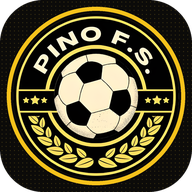
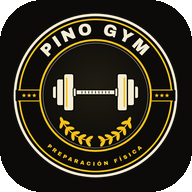
Comparador de fotos deslizable y escudo Pino Gym
Claude-Session: https://claude.ai/code/session_01Kz5EdENrRzZoivTcBXxDK7

diff --git a/juanma/index.html b/juanma/index.html
@@ -423,6 +423,15 @@ body::before{background:var(--bg)}
 .bimg.sm span{position:absolute;left:0;right:0;bottom:0;font-size:10px;font-weight:700;text-transform:uppercase;letter-spacing:.06em;background:rgba(0,0,0,.65);color:#fff;padding:3px 0;text-align:center}
 .bimg.sm.empty{display:block}
 .cmpcol .label{text-align:center}
+.cmp-sc{display:flex;overflow-x:auto;scroll-snap-type:x mandatory;border-radius:12px;scrollbar-width:none;-webkit-overflow-scrolling:touch;overscroll-behavior-x:contain}
+.cmp-sc::-webkit-scrollbar{display:none}
+.cmp-sc>.bimg{flex:0 0 100%;scroll-snap-align:center;scroll-snap-stop:always}
+.bimg.last{border-color:var(--accent);box-shadow:0 0 0 1px var(--accent)}
+.cmp-nav{display:flex;align-items:center;justify-content:center;gap:6px;min-height:34px}
+.cmp-nav .label{flex:1;min-width:0;font-size:11px;line-height:1.25}
+.cmp-ar{width:34px;height:34px;flex:none;border-radius:50%;border:1px solid var(--line);background:var(--surface-2);color:var(--ink);font-size:22px;line-height:1;padding:0;display:grid;place-items:center;cursor:pointer}
+.cmp-ar:disabled{opacity:.3;cursor:default}
+.cmp-pos{text-align:center;font-size:11px;align-self:center}
 
 /* v11: sobras + novedades */
 .lefto{display:flex;align-items:center;gap:10px;font-size:14px;font-weight:600;cursor:pointer;margin-top:4px;padding:8px 10px;border:1px dashed var(--line);border-radius:10px;align-self:flex-start}
@@ -494,7 +503,7 @@ const state={
   weekId:null, tab:'entreno', gymDay:todayIdx<5?todayIdx:0, foodDay:todayIdx,
   modal:null, confirm:null, extraCat:'Alcohol', extraText:'', extraTime:'',
   exForm:{name:'',group:'Pecho',work:'',editId:null}, libSearch:'', maxSearch:'', newGroup:'', newWork:'',
-  newSess:'', editSess:null, uploading:null, pending:null, xa:{day:null,kind:'Fútbol',h:1,m:0}, rvDraft:{}, cmp:{a:null,b:null,view:'front'}, bEdit:null, loaded:{}, asked:{}, anEdit:null, weighEdit:null
+  newSess:'', editSess:null, uploading:null, pending:null, xa:{day:null,kind:'Fútbol',h:1,m:0}, rvDraft:{}, cmp:{i:0,view:'front'}, bEdit:null, loaded:{}, asked:{}, anEdit:null, weighEdit:null
 };
 
 /* ---------- store: Supabase (datos, fotos y cambios en directo) ---------- */
@@ -811,16 +820,30 @@ function bodyCardHTML(w,k,free){
     ${admin&&!(e.front||e.side)?`<span class="muted" style="font-size:13px">Juanma todavía no ha subido las fotos.</span>`:''}
   </div>`;
 }
+function setupCmp(){
+  const sc=document.getElementById('cmp-sc');if(!sc)return;
+  const n=+sc.dataset.n||0;const slides=[...sc.children];
+  const upd=i=>{i=Math.min(Math.max(0,i),n-1);state.cmp.i=i;const l=document.getElementById('cmp-lbl');if(l&&slides[i])l.textContent=slides[i].dataset.lbl;
+    const p=document.getElementById('cmp-pos');if(p&&n>1)p.textContent=`${i+1} de ${n} · desliza para cambiar`;
+    document.querySelectorAll('.cmp-ar').forEach(x=>{x.disabled=(+x.dataset.d<0)?i<=0:i>=n-1})};
+  const go=()=>{sc.scrollLeft=(state.cmp.i|0)*sc.clientWidth};go();requestAnimationFrame(go);
+  let t=null;sc.addEventListener('scroll',()=>{clearTimeout(t);t=setTimeout(()=>upd(Math.round(sc.scrollLeft/Math.max(1,sc.clientWidth))),60)},{passive:true});
+}
 function bodyCard(){
   const list=bodyEntries();const admin=isAdmin();const c=state.cmp;const v=c.view;
   const withV=list.filter(e=>e[v]);
   let a=withV.find(e=>e.id===c.a),b=withV.find(e=>e.id===c.b);
   if(!a)a=withV[0];if(!b)b=withV[withV.length-1];
   const opt=(sel)=>withV.map(e=>`<option value="${e.id}" ${sel&&sel.id===e.id?'selected':''}>${esc(bLabel(e))}</option>`).join('');
+  const last=withV[withV.length-1],olds=withV.slice(0,-1);
+  const ci=Math.min(Math.max(0,c.i|0),Math.max(0,olds.length-1));
   const cmp=withV.length>1?`<div class="seg" style="max-width:260px">${SLOTS.map(([sk,sn])=>`<button data-act="cmp-view" data-v="${sk}" aria-pressed="${v===sk}">${sn}</button>`).join('')}</div>
     <div class="cmp">
-      <div class="cmpcol"><select class="input" id="cmp-a" data-f="cmp-a" aria-label="Foto de antes">${opt(a)}</select><button class="bimg" data-act="lightbox" data-id="${esc(a[v])}"><img src="${blob(esc(a[v]))}" alt="Antes"></button><span class="label">Antes</span></div>
-      <div class="cmpcol"><select class="input" id="cmp-b" data-f="cmp-b" aria-label="Foto de después">${opt(b)}</select><button class="bimg" data-act="lightbox" data-id="${esc(b[v])}"><img src="${blob(esc(b[v]))}" alt="Después"></button><span class="label">Después</span></div>
+      <div class="cmpcol"><div class="cmp-sc" id="cmp-sc" data-n="${olds.length}">${olds.map(e=>`<button class="bimg" data-act="lightbox" data-id="${esc(e[v])}" data-lbl="${esc(bLabel(e))}"><img src="${blob(esc(e[v]))}" alt="${esc(bLabel(e))}" loading="lazy"></button>`).join('')}</div>
+        <div class="cmp-nav"><button class="cmp-ar" data-act="cmp-step" data-d="-1" aria-label="Semana anterior" ${ci<=0?'disabled':''}>‹</button><span class="label" id="cmp-lbl">${esc(bLabel(olds[ci]))}</span><button class="cmp-ar" data-act="cmp-step" data-d="1" aria-label="Semana siguiente" ${ci>=olds.length-1?'disabled':''}>›</button></div>
+        <span class="cmp-pos muted" id="cmp-pos">${olds.length>1?`${ci+1} de ${olds.length} · desliza para cambiar`:''}</span></div>
+      <div class="cmpcol"><button class="bimg last" data-act="lightbox" data-id="${esc(last[v])}"><img src="${blob(esc(last[v]))}" alt="Última foto"></button>
+        <div class="cmp-nav"><span class="label">Última · ${esc(bLabel(last))}</span></div></div>
     </div>`:'';
   let free='';
   if(!admin){const cw=state.weeks['w'+curNum()];const tk=DAYS[todayIdx].k;
@@ -865,6 +888,10 @@ function weightCard(){
 }
 /* ---------- novedades: añadir una entrada nueva arriba cada vez que se cambie la app ---------- */
 const CHANGELOG=[
+  {v:'2026-11-27',title:'Novedades',items:[
+    'Nuevo comparador de fotos en Semana → Físico: a la derecha siempre la última foto y a la izquierda desliza (o usa las flechas) para ir viendo las semanas anteriores. Arriba eliges Frente o Lado.',
+    'Nuevo escudo: Pino Gym, con una mancuerna.'
+  ]},
   {v:'2026-11-24',title:'Novedades',items:[
     'Ejercicios compartidos: la biblioteca de ejercicios del entrenador es la misma para todos los alumnos. Lo que crea para uno, lo puede usar con los demás.',
     'Las sesiones siguen siendo de cada alumno, pero el entrenador puede copiar una sesión de otro alumno desde la pestaña Sesiones.'
@@ -973,6 +1000,7 @@ function render(){
   if(!state.role){app.innerHTML=roleScreen();document.getElementById('modal').innerHTML='';return}
   if(!state.ready){app.innerHTML='<div class="loading"><img src="img/pino.png" alt="">Cargando datos…</div>';return}
   app.innerHTML=shell();
+  setupCmp();
   maybeAsk();
   maybeNews();
   document.getElementById('modal').innerHTML=state.modal?modalHTML():'';
@@ -982,7 +1010,7 @@ function loginScreen(){
   if(state.auth==='checking')return '<div class="loading"><img src="img/pino.png" alt="">Cargando…</div>';
   if(state.auth==='config')return '<div class="wrap loading">Falta configurar la conexión (config.js).</div>';
   return `<div class="role-bg"><div class="wrap role-screen">
-    <div class="crest-row"><img src="img/pino.png" alt="Escudo del Pino F.S."><div><div class="stars">★★★</div><div class="club">Pino F.S.</div><div class="label">Preparación física</div></div></div>
+    <div class="crest-row"><img src="img/pino.png" alt="Escudo de Pino Gym"><div><div class="stars">★★★</div><div class="club">Pino Gym</div><div class="label">Preparación física</div></div></div>
     <h1 class="splash-title">Entreno<br>${esc(CFG.student)} <span>&amp;</span> Adri</h1>
     <img class="lema" src="img/himno-lema.jpg" alt="Jugamos con el alma">
     <div class="card"><div class="label">Acceso</div>
@@ -996,7 +1024,7 @@ function loginScreen(){
 }
 function roleScreen(){
   return `<div class="role-bg"><div class="wrap role-screen">
-    <div class="crest-row"><img src="img/pino.png" alt="Escudo del Pino F.S."><div><div class="stars">★★★</div><div class="club">Pino F.S.</div><div class="label">Preparación física</div></div></div>
+    <div class="crest-row"><img src="img/pino.png" alt="Escudo de Pino Gym"><div><div class="stars">★★★</div><div class="club">Pino Gym</div><div class="label">Preparación física</div></div></div>
     <h1 class="splash-title">Entreno<br>Juanma <span>&amp;</span> Adri</h1>
     <img class="lema" src="img/himno-lema.jpg" alt="Jugamos con el alma">
     ${goalHTML()}
@@ -1645,7 +1673,8 @@ document.addEventListener('click',ev=>{
     case'up-body':{const k=b.dataset.day;const wn=+b.dataset.wn||w.num;pickFile({kind:'body',key:`bd-${wn}-${k}-${b.dataset.slot}`,weekNum:wn,day:k,slot:b.dataset.slot},'image/*');return}
     case'body-del':{const k=b.dataset.day,sl=b.dataset.slot;const wn=+b.dataset.wn||w.num;const list=Array.isArray(BD().entries)?clone(BD().entries):[];const e=list.find(x=>x.week===wn&&x.day===k);if(!e||!e[sl])break;
       if(!needConfirm('bdel-'+e[sl]))return;const old=e[sl];delete e[sl];saveBody({entries:list});if(state.assets)state.assets.delete(old).catch(()=>{});toast('Foto borrada');break}
-    case'cmp-view':state.cmp.view=b.dataset.v;break;
+    case'cmp-view':state.cmp.view=b.dataset.v;state.cmp.i=0;break;
+    case'cmp-step':{const sc=document.getElementById('cmp-sc');if(sc)sc.scrollBy({left:(+b.dataset.d)*sc.clientWidth,behavior:'smooth'});return}
     case'ban-edit':state.bEdit=b.dataset.id;break;
     case'ban-cancel':state.bEdit=null;break;
     case'ban-save':{const t=(document.getElementById('ban-'+b.dataset.id)?.value||'').trim();
@@ -1782,7 +1811,7 @@ document.addEventListener('change',ev=>{
   const el=ev.target;if(el.id==='xa-h')state.xa.h=+el.value;if(el.id==='xa-m')state.xa.m=+el.value;const f=el.dataset&&el.dataset.f;if(!f)return;
   try{hookChange(f,el)}catch(e){}
   if(f==='rv'){keepRv(el);return}
-  if(f==='cmp-a'||f==='cmp-b'){state.cmp[f==='cmp-a'?'a':'b']=el.value;render();return}const v=el.value;
+const v=el.value;
   const gk=DAYS[state.gymDay].k, fk=DAYS[state.foodDay].k;const ctx=el.dataset.ctx;
   switch(f){
     case'day-title':patchWeek({days:{[gk]:{title:v.trim()}}});break;

diff --git a/alex/index.html b/alex/index.html
@@ -423,6 +423,15 @@ body::before{background:var(--bg)}
 .bimg.sm span{position:absolute;left:0;right:0;bottom:0;font-size:10px;font-weight:700;text-transform:uppercase;letter-spacing:.06em;background:rgba(0,0,0,.65);color:#fff;padding:3px 0;text-align:center}
 .bimg.sm.empty{display:block}
 .cmpcol .label{text-align:center}
+.cmp-sc{display:flex;overflow-x:auto;scroll-snap-type:x mandatory;border-radius:12px;scrollbar-width:none;-webkit-overflow-scrolling:touch;overscroll-behavior-x:contain}
+.cmp-sc::-webkit-scrollbar{display:none}
+.cmp-sc>.bimg{flex:0 0 100%;scroll-snap-align:center;scroll-snap-stop:always}
+.bimg.last{border-color:var(--accent);box-shadow:0 0 0 1px var(--accent)}
+.cmp-nav{display:flex;align-items:center;justify-content:center;gap:6px;min-height:34px}
+.cmp-nav .label{flex:1;min-width:0;font-size:11px;line-height:1.25}
+.cmp-ar{width:34px;height:34px;flex:none;border-radius:50%;border:1px solid var(--line);background:var(--surface-2);color:var(--ink);font-size:22px;line-height:1;padding:0;display:grid;place-items:center;cursor:pointer}
+.cmp-ar:disabled{opacity:.3;cursor:default}
+.cmp-pos{text-align:center;font-size:11px;align-self:center}
 
 /* v11: sobras + novedades */
 .lefto{display:flex;align-items:center;gap:10px;font-size:14px;font-weight:600;cursor:pointer;margin-top:4px;padding:8px 10px;border:1px dashed var(--line);border-radius:10px;align-self:flex-start}
@@ -494,7 +503,7 @@ const state={
   weekId:null, tab:'entreno', gymDay:todayIdx<5?todayIdx:0, foodDay:todayIdx,
   modal:null, confirm:null, extraCat:'Alcohol', extraText:'', extraTime:'',
   exForm:{name:'',group:'Pecho',work:'',editId:null}, libSearch:'', maxSearch:'', newGroup:'', newWork:'',
-  newSess:'', editSess:null, uploading:null, pending:null, xa:{day:null,kind:'Fútbol',h:1,m:0}, rvDraft:{}, cmp:{a:null,b:null,view:'front'}, bEdit:null, loaded:{}, asked:{}, anEdit:null, weighEdit:null
+  newSess:'', editSess:null, uploading:null, pending:null, xa:{day:null,kind:'Fútbol',h:1,m:0}, rvDraft:{}, cmp:{i:0,view:'front'}, bEdit:null, loaded:{}, asked:{}, anEdit:null, weighEdit:null
 };
 
 /* ---------- store: Supabase (datos, fotos y cambios en directo) ---------- */
@@ -811,16 +820,30 @@ function bodyCardHTML(w,k,free){
     ${admin&&!(e.front||e.side)?`<span class="muted" style="font-size:13px">Alex todavía no ha subido las fotos.</span>`:''}
   </div>`;
 }
+function setupCmp(){
+  const sc=document.getElementById('cmp-sc');if(!sc)return;
+  const n=+sc.dataset.n||0;const slides=[...sc.children];
+  const upd=i=>{i=Math.min(Math.max(0,i),n-1);state.cmp.i=i;const l=document.getElementById('cmp-lbl');if(l&&slides[i])l.textContent=slides[i].dataset.lbl;
+    const p=document.getElementById('cmp-pos');if(p&&n>1)p.textContent=`${i+1} de ${n} · desliza para cambiar`;
+    document.querySelectorAll('.cmp-ar').forEach(x=>{x.disabled=(+x.dataset.d<0)?i<=0:i>=n-1})};
+  const go=()=>{sc.scrollLeft=(state.cmp.i|0)*sc.clientWidth};go();requestAnimationFrame(go);
+  let t=null;sc.addEventListener('scroll',()=>{clearTimeout(t);t=setTimeout(()=>upd(Math.round(sc.scrollLeft/Math.max(1,sc.clientWidth))),60)},{passive:true});
+}
 function bodyCard(){
   const list=bodyEntries();const admin=isAdmin();const c=state.cmp;const v=c.view;
   const withV=list.filter(e=>e[v]);
   let a=withV.find(e=>e.id===c.a),b=withV.find(e=>e.id===c.b);
   if(!a)a=withV[0];if(!b)b=withV[withV.length-1];
   const opt=(sel)=>withV.map(e=>`<option value="${e.id}" ${sel&&sel.id===e.id?'selected':''}>${esc(bLabel(e))}</option>`).join('');
+  const last=withV[withV.length-1],olds=withV.slice(0,-1);
+  const ci=Math.min(Math.max(0,c.i|0),Math.max(0,olds.length-1));
   const cmp=withV.length>1?`<div class="seg" style="max-width:260px">${SLOTS.map(([sk,sn])=>`<button data-act="cmp-view" data-v="${sk}" aria-pressed="${v===sk}">${sn}</button>`).join('')}</div>
     <div class="cmp">
-      <div class="cmpcol"><select class="input" id="cmp-a" data-f="cmp-a" aria-label="Foto de antes">${opt(a)}</select><button class="bimg" data-act="lightbox" data-id="${esc(a[v])}"><img src="${blob(esc(a[v]))}" alt="Antes"></button><span class="label">Antes</span></div>
-      <div class="cmpcol"><select class="input" id="cmp-b" data-f="cmp-b" aria-label="Foto de después">${opt(b)}</select><button class="bimg" data-act="lightbox" data-id="${esc(b[v])}"><img src="${blob(esc(b[v]))}" alt="Después"></button><span class="label">Después</span></div>
+      <div class="cmpcol"><div class="cmp-sc" id="cmp-sc" data-n="${olds.length}">${olds.map(e=>`<button class="bimg" data-act="lightbox" data-id="${esc(e[v])}" data-lbl="${esc(bLabel(e))}"><img src="${blob(esc(e[v]))}" alt="${esc(bLabel(e))}" loading="lazy"></button>`).join('')}</div>
+        <div class="cmp-nav"><button class="cmp-ar" data-act="cmp-step" data-d="-1" aria-label="Semana anterior" ${ci<=0?'disabled':''}>‹</button><span class="label" id="cmp-lbl">${esc(bLabel(olds[ci]))}</span><button class="cmp-ar" data-act="cmp-step" data-d="1" aria-label="Semana siguiente" ${ci>=olds.length-1?'disabled':''}>›</button></div>
+        <span class="cmp-pos muted" id="cmp-pos">${olds.length>1?`${ci+1} de ${olds.length} · desliza para cambiar`:''}</span></div>
+      <div class="cmpcol"><button class="bimg last" data-act="lightbox" data-id="${esc(last[v])}"><img src="${blob(esc(last[v]))}" alt="Última foto"></button>
+        <div class="cmp-nav"><span class="label">Última · ${esc(bLabel(last))}</span></div></div>
     </div>`:'';
   let free='';
   if(!admin){const cw=state.weeks['w'+curNum()];const tk=DAYS[todayIdx].k;
@@ -865,6 +888,10 @@ function weightCard(){
 }
 /* ---------- novedades: añadir una entrada nueva arriba cada vez que se cambie la app ---------- */
 const CHANGELOG=[
+  {v:'2026-11-27',title:'Novedades',items:[
+    'Nuevo comparador de fotos en Semana → Físico: a la derecha siempre la última foto y a la izquierda desliza (o usa las flechas) para ir viendo las semanas anteriores. Arriba eliges Frente o Lado.',
+    'Nuevo escudo: Pino Gym, con una mancuerna.'
+  ]},
   {v:'2026-11-24',title:'Novedades',items:[
     'Ejercicios compartidos: la biblioteca de ejercicios del entrenador es la misma para todos los alumnos. Lo que crea para uno, lo puede usar con los demás.',
     'Las sesiones siguen siendo de cada alumno, pero el entrenador puede copiar una sesión de otro alumno desde la pestaña Sesiones.'
@@ -973,6 +1000,7 @@ function render(){
   if(!state.role){app.innerHTML=roleScreen();document.getElementById('modal').innerHTML='';return}
   if(!state.ready){app.innerHTML='<div class="loading"><img src="img/pino.png" alt="">Cargando datos…</div>';return}
   app.innerHTML=shell();
+  setupCmp();
   maybeAsk();
   maybeNews();
   document.getElementById('modal').innerHTML=state.modal?modalHTML():'';
@@ -982,7 +1010,7 @@ function loginScreen(){
   if(state.auth==='checking')return '<div class="loading"><img src="img/pino.png" alt="">Cargando…</div>';
   if(state.auth==='config')return '<div class="wrap loading">Falta configurar la conexión (config.js).</div>';
   return `<div class="role-bg"><div class="wrap role-screen">
-    <div class="crest-row"><img src="img/pino.png" alt="Escudo del Pino F.S."><div><div class="stars">★★★</div><div class="club">Pino F.S.</div><div class="label">Preparación física</div></div></div>
+    <div class="crest-row"><img src="img/pino.png" alt="Escudo de Pino Gym"><div><div class="stars">★★★</div><div class="club">Pino Gym</div><div class="label">Preparación física</div></div></div>
     <h1 class="splash-title">Entreno<br>${esc(CFG.student)} <span>&amp;</span> Adri</h1>
     <img class="lema" src="img/himno-lema.jpg" alt="Jugamos con el alma">
     <div class="card"><div class="label">Acceso</div>
@@ -996,7 +1024,7 @@ function loginScreen(){
 }
 function roleScreen(){
   return `<div class="role-bg"><div class="wrap role-screen">
-    <div class="crest-row"><img src="img/pino.png" alt="Escudo del Pino F.S."><div><div class="stars">★★★</div><div class="club">Pino F.S.</div><div class="label">Preparación física</div></div></div>
+    <div class="crest-row"><img src="img/pino.png" alt="Escudo de Pino Gym"><div><div class="stars">★★★</div><div class="club">Pino Gym</div><div class="label">Preparación física</div></div></div>
     <h1 class="splash-title">Entreno<br>Alex <span>&amp;</span> Adri</h1>
     <img class="lema" src="img/himno-lema.jpg" alt="Jugamos con el alma">
     ${goalHTML()}
@@ -1645,7 +1673,8 @@ document.addEventListener('click',ev=>{
     case'up-body':{const k=b.dataset.day;const wn=+b.dataset.wn||w.num;pickFile({kind:'body',key:`bd-${wn}-${k}-${b.dataset.slot}`,weekNum:wn,day:k,slot:b.dataset.slot},'image/*');return}
     case'body-del':{const k=b.dataset.day,sl=b.dataset.slot;const wn=+b.dataset.wn||w.num;const list=Array.isArray(BD().entries)?clone(BD().entries):[];const e=list.find(x=>x.week===wn&&x.day===k);if(!e||!e[sl])break;
       if(!needConfirm('bdel-'+e[sl]))return;const old=e[sl];delete e[sl];saveBody({entries:list});if(state.assets)state.assets.delete(old).catch(()=>{});toast('Foto borrada');break}
-    case'cmp-view':state.cmp.view=b.dataset.v;break;
+    case'cmp-view':state.cmp.view=b.dataset.v;state.cmp.i=0;break;
+    case'cmp-step':{const sc=document.getElementById('cmp-sc');if(sc)sc.scrollBy({left:(+b.dataset.d)*sc.clientWidth,behavior:'smooth'});return}
     case'ban-edit':state.bEdit=b.dataset.id;break;
     case'ban-cancel':state.bEdit=null;break;
     case'ban-save':{const t=(document.getElementById('ban-'+b.dataset.id)?.value||'').trim();
@@ -1782,7 +1811,7 @@ document.addEventListener('change',ev=>{
   const el=ev.target;if(el.id==='xa-h')state.xa.h=+el.value;if(el.id==='xa-m')state.xa.m=+el.value;const f=el.dataset&&el.dataset.f;if(!f)return;
   try{hookChange(f,el)}catch(e){}
   if(f==='rv'){keepRv(el);return}
-  if(f==='cmp-a'||f==='cmp-b'){state.cmp[f==='cmp-a'?'a':'b']=el.value;render();return}const v=el.value;
+const v=el.value;
   const gk=DAYS[state.gymDay].k, fk=DAYS[state.foodDay].k;const ctx=el.dataset.ctx;
   switch(f){
     case'day-title':patchWeek({days:{[gk]:{title:v.trim()}}});break;

diff --git a/index.html b/index.html
@@ -1,6 +1,6 @@
 <!doctype html>
 <html lang="es"><head><meta charset="utf-8"><meta name="viewport" content="width=device-width,initial-scale=1">
-<title>Entreno Pino F.S.</title>
+<title>Entreno Pino Gym</title>
 <style>
 body{margin:0;background:#0C0B09;color:#F4ECD4;font:16px/1.45 system-ui,-apple-system,"Segoe UI",sans-serif;display:grid;place-items:center;min-height:100vh;padding:24px;box-sizing:border-box}
 main{max-width:420px;width:100%;display:flex;flex-direction:column;gap:14px}
@@ -8,7 +8,7 @@ h1{margin:0;color:#F6C21B;font-size:28px}
 a{display:flex;align-items:center;gap:14px;padding:14px;border:1px solid #332F23;border-radius:14px;background:#171510;color:inherit;text-decoration:none;font-weight:600}
 a img{width:52px;height:52px;border-radius:12px}
 </style></head><body><main>
-<h1>Entreno Pino F.S.</h1>
+<h1>Entreno Pino Gym</h1>
 <a href="alex/"><img src="alex/img/icon-192.png" alt="">Entreno Alex &amp; Adri</a>
 <a href="juanma/"><img src="juanma/img/icon-192.png" alt="">Entreno Juanma &amp; Adri</a>
 <a href="adri/"><img src="adri/img/icon-192.png" alt="">Entrenador (Adri)</a>

diff --git a/adri/index.html b/adri/index.html
@@ -46,7 +46,7 @@ const C=window.SB_CONFIG;
 const sb=supabase.createClient(C.url,C.key,{auth:{persistSession:true,autoRefreshToken:true,storageKey:'entreno-session'}});
 const STUDENTS=(C.students||[]).map(x=>({...x,img:'../'+x.img}));
 const $=id=>document.getElementById(id);
-const head=`<div class="crest"><img src="img/pino.png" alt="Escudo del Pino F.S."><div><div class="stars">★★★</div><div class="club">Pino F.S.</div><div class="label">Preparación física</div></div></div>`;
+const head=`<div class="crest"><img src="img/pino.png" alt="Escudo de Pino Gym"><div><div class="stars">★★★</div><div class="club">Pino Gym</div><div class="label">Preparación física</div></div></div>`;
 function login(msg){
   $('app').innerHTML=head+`<h1>Entreno<br>Adri</h1><img class="lema" src="img/himno-lema.jpg" alt="Jugamos con el alma">
   <div class="card"><div class="label">Acceso del entrenador</div><span class="muted">Escribe tu contraseña. Solo hay que hacerlo una vez en cada dispositivo.</span>

diff --git a/tools/patch_cmp_scroll.py b/tools/patch_cmp_scroll.py
@@ -1,0 +1,47 @@
+import sys
+def rep(s,a,b,n=1):
+    assert s.count(a)==n,(a[:60],s.count(a));return s.replace(a,b)
+for f in sys.argv[1:]:
+    s=open(f).read()
+    old_start=s.index("  const cmp=withV.length>1?`<div class=\"seg\"")
+    old_end=s.index("    </div>`:'';\n",old_start)+len("    </div>`:'';\n")
+    new='''  const last=withV[withV.length-1],olds=withV.slice(0,-1);
+  const ci=Math.min(Math.max(0,c.i|0),Math.max(0,olds.length-1));
+  const cmp=withV.length>1?`<div class="seg" style="max-width:260px">${SLOTS.map(([sk,sn])=>`<button data-act="cmp-view" data-v="${sk}" aria-pressed="${v===sk}">${sn}</button>`).join('')}</div>
+    <div class="cmp">
+      <div class="cmpcol"><div class="cmp-sc" id="cmp-sc" data-n="${olds.length}">${olds.map(e=>`<button class="bimg" data-act="lightbox" data-id="${esc(e[v])}" data-lbl="${esc(bLabel(e))}"><img src="${blob(esc(e[v]))}" alt="${esc(bLabel(e))}" loading="lazy"></button>`).join('')}</div>
+        <div class="cmp-nav"><button class="cmp-ar" data-act="cmp-step" data-d="-1" aria-label="Semana anterior" ${ci<=0?'disabled':''}>‹</button><span class="label" id="cmp-lbl">${esc(bLabel(olds[ci]))}</span><button class="cmp-ar" data-act="cmp-step" data-d="1" aria-label="Semana siguiente" ${ci>=olds.length-1?'disabled':''}>›</button></div>
+        <span class="cmp-pos muted" id="cmp-pos">${olds.length>1?`${ci+1} de ${olds.length} · desliza para cambiar`:''}</span></div>
+      <div class="cmpcol"><button class="bimg last" data-act="lightbox" data-id="${esc(last[v])}"><img src="${blob(esc(last[v]))}" alt="Última foto"></button>
+        <div class="cmp-nav"><span class="label">Última · ${esc(bLabel(last))}</span></div></div>
+    </div>`:'';
+'''
+    s=s[:old_start]+new+s[old_end:]
+    s=rep(s,"cmp:{a:null,b:null,view:'front'}","cmp:{i:0,view:'front'}")
+    s=rep(s,"    case'cmp-view':state.cmp.view=b.dataset.v;break;",
+      "    case'cmp-view':state.cmp.view=b.dataset.v;state.cmp.i=0;break;\n    case'cmp-step':{const sc=document.getElementById('cmp-sc');if(sc)sc.scrollBy({left:(+b.dataset.d)*sc.clientWidth,behavior:'smooth'});return}")
+    s=rep(s,"  app.innerHTML=shell();\n","  app.innerHTML=shell();\n  setupCmp();\n")
+    s=rep(s,"function bodyCard(){",'''function setupCmp(){
+  const sc=document.getElementById('cmp-sc');if(!sc)return;
+  const n=+sc.dataset.n||0;const slides=[...sc.children];
+  const upd=i=>{i=Math.min(Math.max(0,i),n-1);state.cmp.i=i;const l=document.getElementById('cmp-lbl');if(l&&slides[i])l.textContent=slides[i].dataset.lbl;
+    const p=document.getElementById('cmp-pos');if(p&&n>1)p.textContent=`${i+1} de ${n} · desliza para cambiar`;
+    document.querySelectorAll('.cmp-ar').forEach(x=>{x.disabled=(+x.dataset.d<0)?i<=0:i>=n-1})};
+  const go=()=>{sc.scrollLeft=(state.cmp.i|0)*sc.clientWidth};go();requestAnimationFrame(go);
+  let t=null;sc.addEventListener('scroll',()=>{clearTimeout(t);t=setTimeout(()=>upd(Math.round(sc.scrollLeft/Math.max(1,sc.clientWidth))),60)},{passive:true});
+}
+function bodyCard(){''')
+    s=rep(s,"  if(f==='cmp-a'||f==='cmp-b'){state.cmp[f==='cmp-a'?'a':'b']=el.value;render();return}","")
+    s=rep(s,".cmpcol .label{text-align:center}\n",""".cmpcol .label{text-align:center}
+.cmp-sc{display:flex;overflow-x:auto;scroll-snap-type:x mandatory;border-radius:12px;scrollbar-width:none;-webkit-overflow-scrolling:touch;overscroll-behavior-x:contain}
+.cmp-sc::-webkit-scrollbar{display:none}
+.cmp-sc>.bimg{flex:0 0 100%;scroll-snap-align:center;scroll-snap-stop:always}
+.bimg.last{border-color:var(--accent);box-shadow:0 0 0 1px var(--accent)}
+.cmp-nav{display:flex;align-items:center;justify-content:center;gap:6px;min-height:34px}
+.cmp-nav .label{flex:1;min-width:0;font-size:11px;line-height:1.25}
+.cmp-ar{width:34px;height:34px;flex:none;border-radius:50%;border:1px solid var(--line);background:var(--surface-2);color:var(--ink);font-size:22px;line-height:1;padding:0;display:grid;place-items:center;cursor:pointer}
+.cmp-ar:disabled{opacity:.3;cursor:default}
+.cmp-pos{text-align:center;font-size:11px}
+""")
+    open(f,'w').write(s)
+    print('ok',f)

diff --git a/tools/logo/gen_pino_gym.py b/tools/logo/gen_pino_gym.py
@@ -1,0 +1,65 @@
+import math
+Y='#F6C21B';C='#F4ECD4';K='#0C0B09'
+cx=cy=256
+def laurel(side):
+    out=[];R=116;lcx,lcy=cx,cy+26
+    a0,a1=(98,158) if side<0 else (82,22)
+    pts=[]
+    for i in range(41):
+        a=math.radians(a0+(a1-a0)*i/40);pts.append((lcx+R*math.cos(a),lcy+R*math.sin(a)))
+    out.append('<path d="M'+' L'.join(f'{x:.1f},{y:.1f}' for x,y in pts)+f'" fill="none" stroke="{Y}" stroke-width="3.5" stroke-linecap="round"/>')
+    n=5
+    for i in range(n):
+        t=(i+0.5)/n;a=a0+(a1-a0)*t;ar=math.radians(a)
+        x=lcx+R*math.cos(ar);y=lcy+R*math.sin(ar)
+        tang=a+(90 if side>0 else -90)
+        for off in (-1,1):
+            ang=tang+off*45
+            lx=x+11*math.cos(math.radians(ang));ly=y+11*math.sin(math.radians(ang))
+            out.append(f'<ellipse cx="{lx:.1f}" cy="{ly:.1f}" rx="12.5" ry="5.2" fill="{Y}" transform="rotate({ang:.1f} {lx:.1f} {ly:.1f})"/>')
+    ar=math.radians(a1);x=lcx+R*math.cos(ar);y=lcy+R*math.sin(ar);ang=a1+(90 if side>0 else -90)
+    lx=x+9*math.cos(math.radians(ang));ly=y+9*math.sin(math.radians(ang))
+    out.append(f'<ellipse cx="{lx:.1f}" cy="{ly:.1f}" rx="12" ry="5" fill="{Y}" transform="rotate({ang:.1f} {lx:.1f} {ly:.1f})"/>')
+    return out
+def star(x,y,r):
+    p=[]
+    for i in range(10):
+        rr=r if i%2==0 else r*0.45;a=math.radians(-90+36*i);p.append(f'{x+rr*math.cos(a):.1f},{y+rr*math.sin(a):.1f}')
+    return f'<polygon points="{" ".join(p)}" fill="{Y}"/>'
+def plate(x,y0,w,h):
+    return f'<rect x="{x}" y="{y0-h/2}" width="{w}" height="{h}" rx="7" fill="{C}" stroke="{K}" stroke-width="4"/>'
+dy=cy-10
+db=[f'<rect x="160" y="{dy-8}" width="192" height="16" rx="4" fill="{C}" stroke="{K}" stroke-width="4"/>']
+for s in (-1,1):
+    X=lambda x0,w: x0 if s<0 else 512-x0-w
+    db.append(plate(X(122,15),dy,15,40))
+    db.append(plate(X(135,24),dy,24,84))
+    db.append(plate(X(157,32),dy,32,116))
+    db.append(f'<rect x="{X(157,32)+7 if s<0 else X(157,32)+20}" y="{dy-46}" width="5" height="92" rx="2.5" fill="{Y}"/>')
+    db.append(f'<rect x="{X(187,9)}" y="{dy-13}" width="9" height="26" rx="2" fill="{C}" stroke="{K}" stroke-width="3"/>')
+for i in range(9):
+    x=214+i*10.5;db.append(f'<line x1="{x:.1f}" y1="{dy-4}" x2="{x:.1f}" y2="{dy+4}" stroke="{K}" stroke-width="2"/>')
+band=[];stars=[]
+for s in (-1,1):
+    x1,x2=(16,82) if s<0 else (430,496)
+    for yy in (cy-17,cy+17):
+        band.append(f'<line x1="{x1}" y1="{yy}" x2="{x2}" y2="{yy}" stroke="{Y}" stroke-width="3"/>')
+    for x in ((34,50,66) if s<0 else (446,462,478)): stars.append(star(x,cy,7))
+r_text=189
+svg=f'''<svg xmlns="http://www.w3.org/2000/svg" viewBox="0 0 512 512" width="512" height="512">
+<defs><path id="arc" d="M {cx-r_text},{cy} A {r_text} {r_text} 0 0 1 {cx+r_text},{cy}"/>
+<path id="arc2" d="M {cx-218},{cy} A 218 218 0 0 0 {cx+218},{cy}"/>
+<radialGradient id="g" cx="50%" cy="42%" r="60%"><stop offset="0" stop-color="#211d13"/><stop offset="1" stop-color="{K}"/></radialGradient></defs>
+<circle cx="{cx}" cy="{cy}" r="254" fill="{C}"/>
+<circle cx="{cx}" cy="{cy}" r="246" fill="{K}"/>
+<circle cx="{cx}" cy="{cy}" r="236" fill="none" stroke="{Y}" stroke-width="5"/>
+<rect x="8" y="{cy-17}" width="78" height="34" fill="{K}"/><rect x="426" y="{cy-17}" width="78" height="34" fill="{K}"/>
+<circle cx="{cx}" cy="{cy}" r="172" fill="url(#g)" stroke="{Y}" stroke-width="6"/>
+<circle cx="{cx}" cy="{cy}" r="163" fill="none" stroke="{C}" stroke-width="2" opacity=".5"/>
+<text font-family="Archivo Black" font-size="52" letter-spacing="6" fill="{C}" text-anchor="middle"><textPath href="#arc" startOffset="50%">PINO GYM</textPath></text>
+<text font-family="Archivo Black" font-size="17" letter-spacing="7" fill="{Y}" text-anchor="middle"><textPath href="#arc2" startOffset="50%">PREPARACIÓN FÍSICA</textPath></text>
+{''.join(band)}{''.join(stars)}
+{''.join(laurel(-1))}{''.join(laurel(1))}
+{''.join(db)}
+</svg>'''
+open('pino-gym.svg','w').write(svg)
